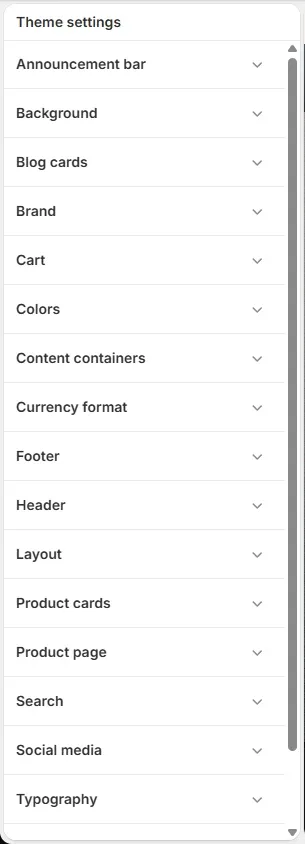
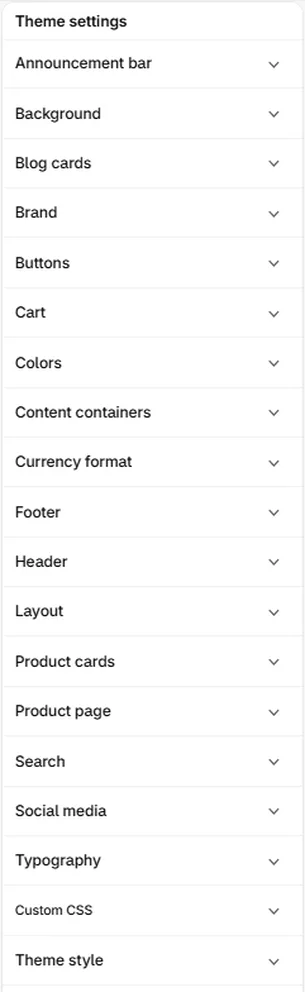
Wave 36: Theme settings picture with Buttons; Blog posts, Expanding panels and Scroll story notes

diff --git a/sections.md b/sections.md
@@ -1,6 +1,6 @@
 ---
 title: Home page sections
-updated: 2026-11-19
+updated: 2026-11-20
 ---
 
 # Home page sections
@@ -337,6 +337,8 @@ One full-screen video or picture that a camera seems to move through as the shop
 3. Select *Add section* and choose **Scroll story**.
 
 This section is for the home page only. It is not offered on other pages.
+
+On a phone, when the shopper lifts their finger the scene glides on to the next caption in the direction they dragged, so even a short, slow drag moves through the scene and dragging back goes back.
 
 ### Settings
 
@@ -1297,7 +1299,7 @@ One panel in the row.
 | **Badge** | The small pill above the heading. Leave empty to number the panel automatically — 01, 02, 03. A long badge wraps onto a second line instead of being cut off. |
 | **Heading** | The panel's title. Press Enter to break it across lines. On a computer the heading always sits above the picture: a long one wraps inside the open panel and shrinks until it fits, never below about a third of its size, and the picture sits just below the tallest heading in the section. A heading too long for that room hides that panel's picture instead of running into it; on a phone the same happens when the heading would reach the picture. |
 | **Description** | Sits along the bottom of the panel and fades in when the panel opens. Press Enter to break across lines. Leave empty to hide. On a window too short for the heading and the description to sit one above the other (a phone held sideways), the open panel puts the description beside the heading and hides its picture; a very long description then scrolls inside its column (mouse wheel, swipe or arrow keys, after Tab), so none of it is lost and the button stays visible, and the heading shrinks as far as it must so its longest word is never broken in the middle. |
-| **Button label** | The words on the button inside the open panel. The button shows only when the panel has a link. A label too long for the panel wraps onto more lines, so all of it always shows and the button grows taller; the picture gives up a little height to make room, so a short label still looks best. |
+| **Button label** | The words on the button inside the open panel. The button shows only when the panel has a link. A label too long for the panel wraps onto more lines, so all of it always shows and the button grows taller; the picture gives up a little height to make room, so a short label still looks best. On a narrow, short phone screen, where the description sits beside the heading, the button's side spacing and text size come down a little (never below three quarters of the size) when a word of the label would otherwise be split in the middle. |
 | **Link** | Where the button goes. Leave empty for a panel that only reads. |
 {: .settings}
 
@@ -2318,6 +2320,8 @@ This section has no blocks. It fills itself from the blog you choose.
 > **Summaries are shortened.** Each card shows the date and author, and a summary that stops after three lines.
 
 > **Phones get a row or a column.** On phones, **Fan** becomes a row you swipe and **Thread** a single column.
+
+> **The keyboard shows a post at once.** A post a shopper reaches with Tab shows whole at once, in its place and fully readable, so it is never faded, tilted or hidden under the deck while it has focus. When focus moves on, the post follows the scroll again, both ways.
 
 > **No blog picked, the News blog shows.** With **Blog** left empty, the section shows the latest posts of the blog at `/blogs/news`, the address Shopify gives a store's first blog by default. A blog with no posts, or no blog at that address, shows nothing on your live store. In the editor you see sample cards so you can judge the look.
 

diff --git a/theme-settings.md b/theme-settings.md
@@ -1,6 +1,6 @@
 ---
 title: Theme settings
-updated: 2026-11-19
+updated: 2026-11-20
 ---
 
 # Theme settings
@@ -23,7 +23,7 @@ Settings that apply to your whole shop: logo, colors, fonts, product cards, sear
 
 <div class="pair">
   <figure class="shot shot--desktop">
-    <img src="{{ '/assets/images/settings/editor-theme-settings-desktop-light.webp' | relative_url }}" alt="The Theme settings panel in the editor, listing the groups from Announcement bar and Background down to Typography" width="305" height="844" loading="lazy">
+    <img src="{{ '/assets/images/settings/editor-theme-settings-desktop-light.webp' | relative_url }}" alt="The Theme settings panel in the editor, listing the groups from Announcement bar and Background down to Theme style, with Buttons between Brand and Cart" width="305" height="992" loading="lazy">
     <figcaption>The Theme settings panel and its groups</figcaption>
   </figure>
 </div>
